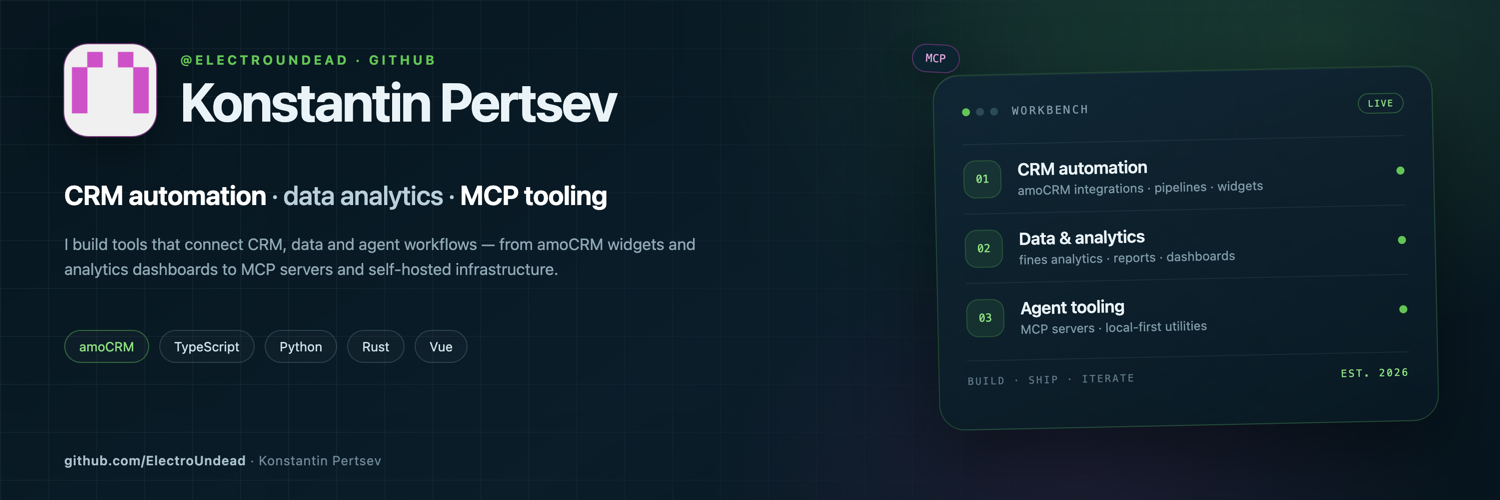
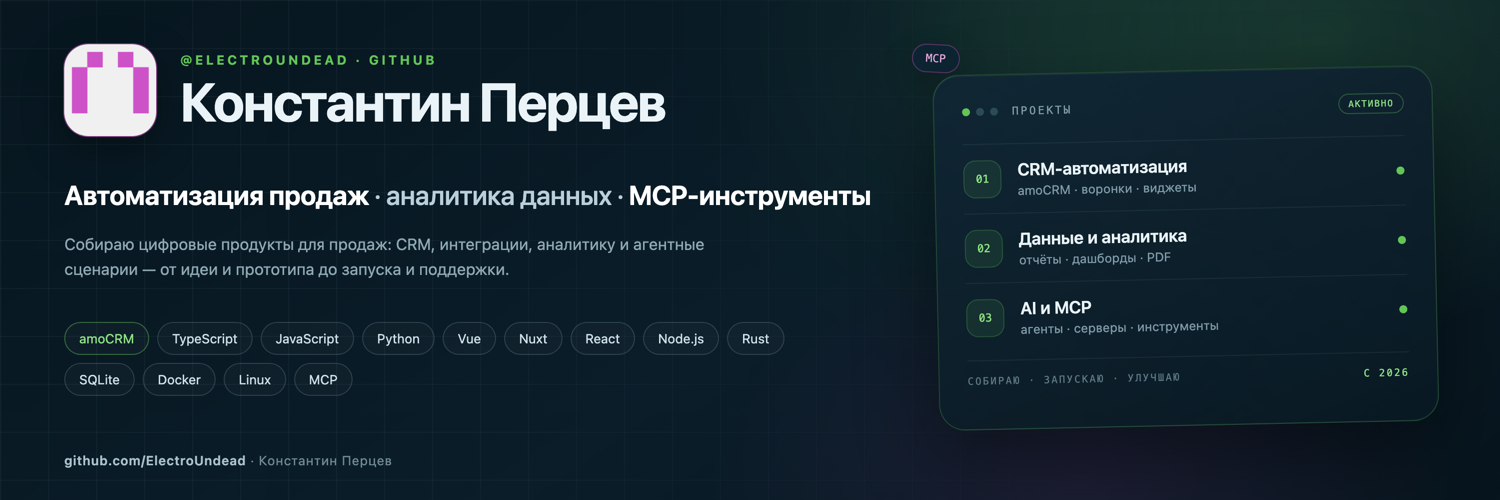
docs: обновить обложку на русском

diff --git a/README.md b/README.md
@@ -1,12 +1,8 @@
 <p align="center">
-  <img src="./banner-1500x500.png" alt="Konstantin Pertsev — CRM automation, data analytics, MCP tooling" width="100%">
+  <img src="./banner-1500x500.png" alt="Константин Перцев — автоматизация продаж, аналитика данных, MCP-инструменты" width="100%">
 </p>
 
 <p align="center">
-  <b>CRM automation · data analytics · MCP tooling</b><br>
-  amoCRM widgets, fines analytics and agent infrastructure.
-</p>
-
-<p align="center">
-  <a href="https://shtrafovnet.ru">shtrafovnet.ru</a>
+  <b>Автоматизация продаж · аналитика данных · MCP-инструменты</b><br>
+  CRM-виджеты, интеграции, дашборды и агентные сценарии — от идеи и прототипа до запуска и поддержки.
 </p>
